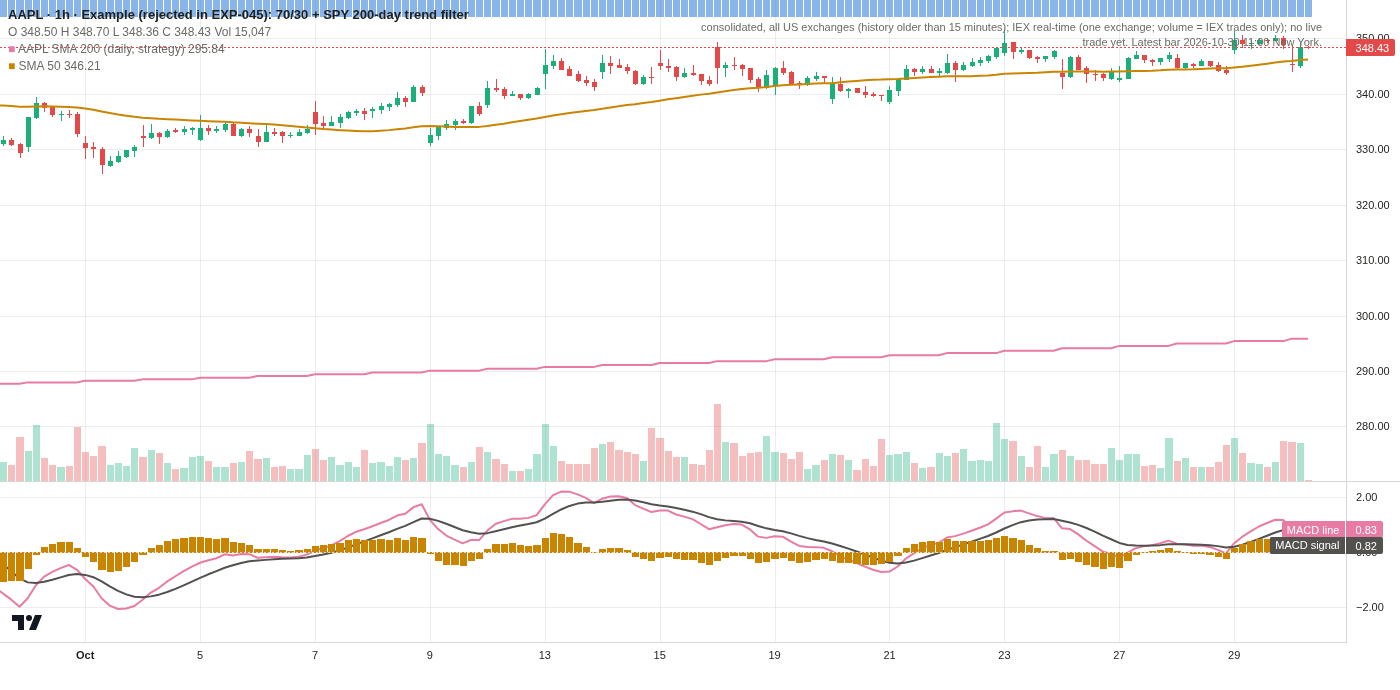
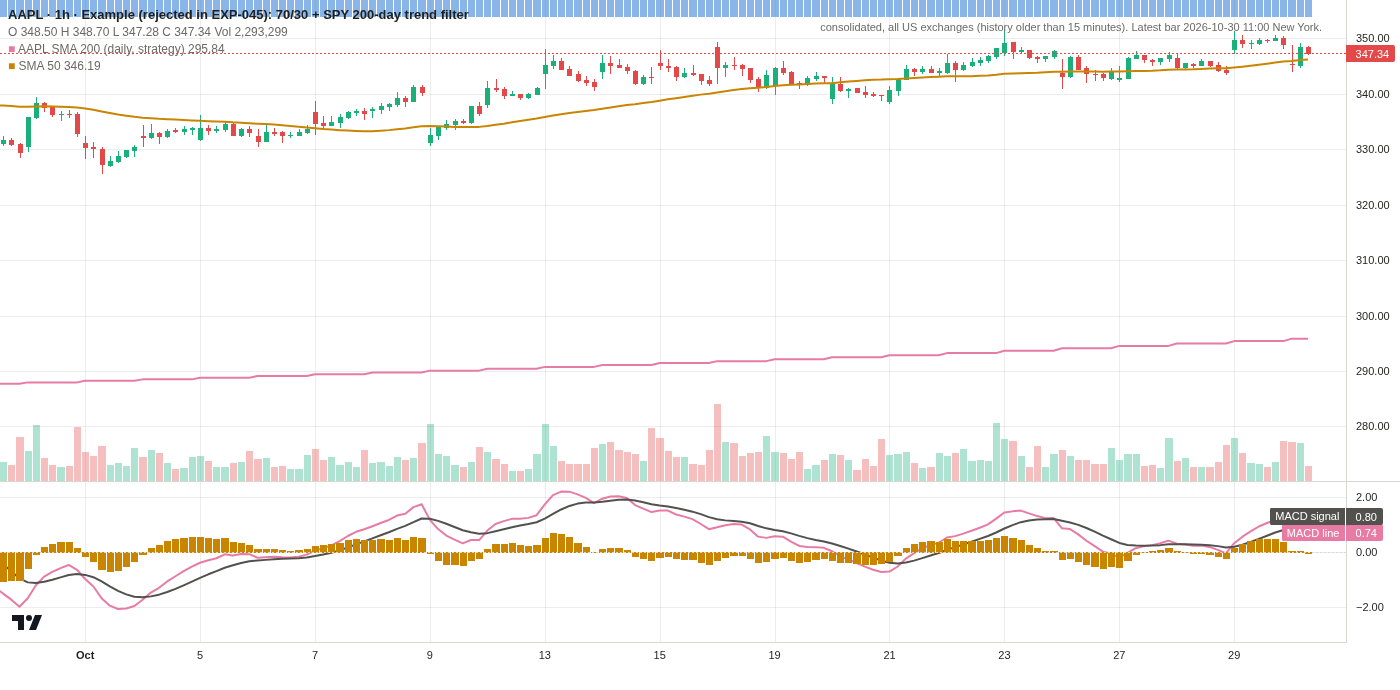
Alpaca connection check

diff --git a/research/monitoring/live-analysis-check.md b/research/monitoring/live-analysis-check.md
@@ -1,0 +1,24 @@
+# Live Analysis check on real data
+
+Run 2026-10-30 15:37 UTC · provider Alpaca · US market OPEN · main strategy A: 70/30 SPY/GLD, monthly rebalance
+
+| Ticker | Last completed close | Says | Stop | Size | Confidence | Timeframes | Record reproduces | News | Problems |
+|---|---|---|---|---|---|---|---|---|---|
+| SPY | 2026-10-29 | HOLD | $755.15 | £5,413 | High (5 of 6 checks agree) | Timeframes conflict: some up, some down | yes | 5 | - (5m sources SIP, IEX) |
+| QQQ | 2026-10-29 | NOT COVERED | $690.23 | £0 | High (5 of 6 checks agree) | No clear agreement (some timeframes mixed) | yes | 5 | - (5m sources SIP, IEX) |
+| IWM | 2026-10-29 | NOT COVERED | $276.78 | £0 | Medium (4 of 6 checks agree) | No clear agreement (some timeframes mixed) | yes | 5 | - (5m sources SIP, IEX) |
+| EFA | 2026-10-29 | NOT COVERED | $102.56 | £0 | Medium (4 of 6 checks agree) | No clear agreement (some timeframes mixed) | yes | 5 | - (5m sources SIP, IEX) |
+| TLT | 2026-10-29 | NOT COVERED | $79.85 | £0 | Low (1 of 6 checks agree) | Timeframes conflict: some up, some down | yes | 5 | - (5m sources SIP, IEX) |
+| IEF | 2026-10-29 | NOT COVERED | $90.31 | £0 | Low (1 of 6 checks agree) | Timeframes conflict: some up, some down | yes | 5 | - (5m sources SIP, IEX) |
+| GLD | 2026-10-29 | HOLD | $358.32 | £3,000 | Medium (3 of 6 checks agree) | No clear agreement (some timeframes mixed) | yes | 5 | - (5m sources SIP, IEX) |
+| SLV | 2026-10-29 | NOT COVERED | $44.40 | £0 | Medium (3 of 6 checks agree) | No clear agreement (some timeframes mixed) | yes | 5 | - (5m sources SIP, IEX) |
+| GDX | 2026-10-29 | NOT COVERED | $75.56 | £0 | Low (2 of 6 checks agree) | No clear agreement (some timeframes mixed) | yes | 5 | - (5m sources SIP, IEX) |
+| DBC | 2026-10-29 | NOT COVERED | $32.86 | £0 | Medium (4 of 6 checks agree) | All timeframes agree: up | yes | 5 | - (5m sources SIP, IEX) |
+| AAPL | 2026-10-29 | NOT COVERED | $336.78 | £0 | Medium (4 of 6 checks agree) | All timeframes agree: up | yes | 5 | - (5m sources SIP, IEX) |
+| MSFT | 2026-10-29 | NOT COVERED | $507.82 | £0 | Medium (4 of 6 checks agree) | Timeframes conflict: some up, some down | yes | 5 | - (5m sources SIP, IEX) |
+| NVDA | 2026-10-29 | NOT COVERED | $201.77 | £0 | Medium (4 of 6 checks agree) | No clear agreement (some timeframes mixed) | yes | 5 | - (5m sources SIP, IEX) |
+| AMZN | 2026-10-29 | NOT COVERED | $229.79 | £0 | Medium (4 of 6 checks agree) | No clear agreement (some timeframes mixed) | yes | 5 | - (5m sources SIP, IEX) |
+| GOOGL | 2026-10-29 | NOT COVERED | $262.27 | £0 | Low (2 of 6 checks agree) | No clear agreement (some timeframes mixed) | yes | 5 | - (5m sources SIP, IEX) |
+| META | 2026-10-29 | NOT COVERED | $571.94 | £0 | Medium (3 of 6 checks agree) | No clear agreement (some timeframes mixed) | yes | 5 | - (5m sources SIP, IEX) |
+
+16 of 16 tickers without problems; 187s.

diff --git a/research/monitoring/alpaca-check.md b/research/monitoring/alpaca-check.md
@@ -1,25 +1,25 @@
-# Alpaca connection check (2026-10-30 15:02 UTC)
+# Alpaca connection check (2026-10-30 15:35 UTC)
 
 Keys found (values not shown).
 Market clock: open=True, next open 2026-11-02T09:30:00-05:00, next close 2026-10-30T16:00:00-04:00.
 
 | Symbol | Timeframe | Bars | First | Last | Sources |
 |---|---|---|---|---|---|
-| SPY | 5m | 1535 | 2026-10-20 15:05 | 2026-10-30 15:00 | SIP, IEX |
-| SPY | 15m | 1408 | 2026-09-30 15:15 | 2026-10-30 15:00 | SIP, IEX |
-| AAPL | 1h | 1344 | 2026-07-02 16:00 | 2026-10-30 15:00 | SIP, IEX |
+| SPY | 5m | 1534 | 2026-10-20 15:40 | 2026-10-30 15:30 | SIP, IEX |
+| SPY | 15m | 1408 | 2026-09-30 15:45 | 2026-10-30 15:30 | SIP, IEX |
+| AAPL | 1h | 1344 | 2026-07-02 16:00 | 2026-10-30 15:00 | SIP |
 | NVDA | 4h | 1187 | 2025-09-25 16:00 | 2026-10-30 12:00 | SIP |
 | GLD | 1d | 2512 | 2016-11-02 04:00 | 2026-10-30 04:00 | SIP |
 | SPY | 1w | 565 | 2016-01-04 05:00 | 2026-10-26 04:00 | SIP |
 
 Latest headlines:
+- 2026-10-30T15:15 'Banks Have Gotten Drunk' on AI Megadeals, USD.AI Co-Founder Says (benzinga)
 - 2026-10-30T15:00 Defensives Lead Sectors In Friday Trading As Growth Trails (benzinga)
 - 2026-10-30T14:14 'Apple Acquires Ascend.io' - MacRumors (benzinga)
-- 2026-10-30T13:59 Tech Bonds Are 'Diamonds in the Rough': Bank of America's Hartnett Says (benzinga)
 
 IEX stream: status connected
-- SPY: last trade 759.07, 0s old, 0 minute bars
-- AAPL: last trade 348.43, 1s old, 0 minute bars
-- GLD: last trade 359.38, 3s old, 0 minute bars
+- SPY: last trade 758.19, 9s old, 0 minute bars
+- AAPL: last trade 347.17, 4s old, 0 minute bars
+- GLD: last trade 357.82, 11s old, 0 minute bars
 
 **Result: PASS**

diff --git a/research/monitoring/live-chart-check.md b/research/monitoring/live-chart-check.md
@@ -2,4 +2,4 @@
 
 - live-chart-spy-1d.png: 2512 bars, 78 orders, sources SIP
 - live-chart-spy-15m.png: 572 bars, 1 orders, sources SIP, IEX
-- live-chart-aapl-1h.png: 588 bars, 0 orders, sources SIP, IEX
+- live-chart-aapl-1h.png: 588 bars, 0 orders, sources SIP
